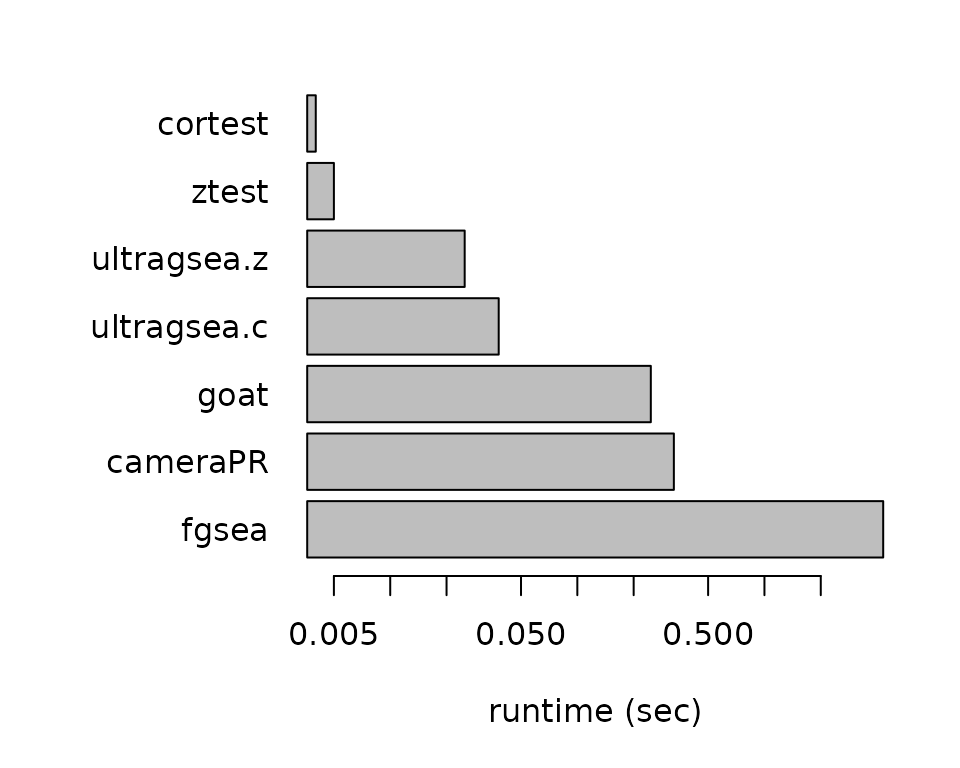
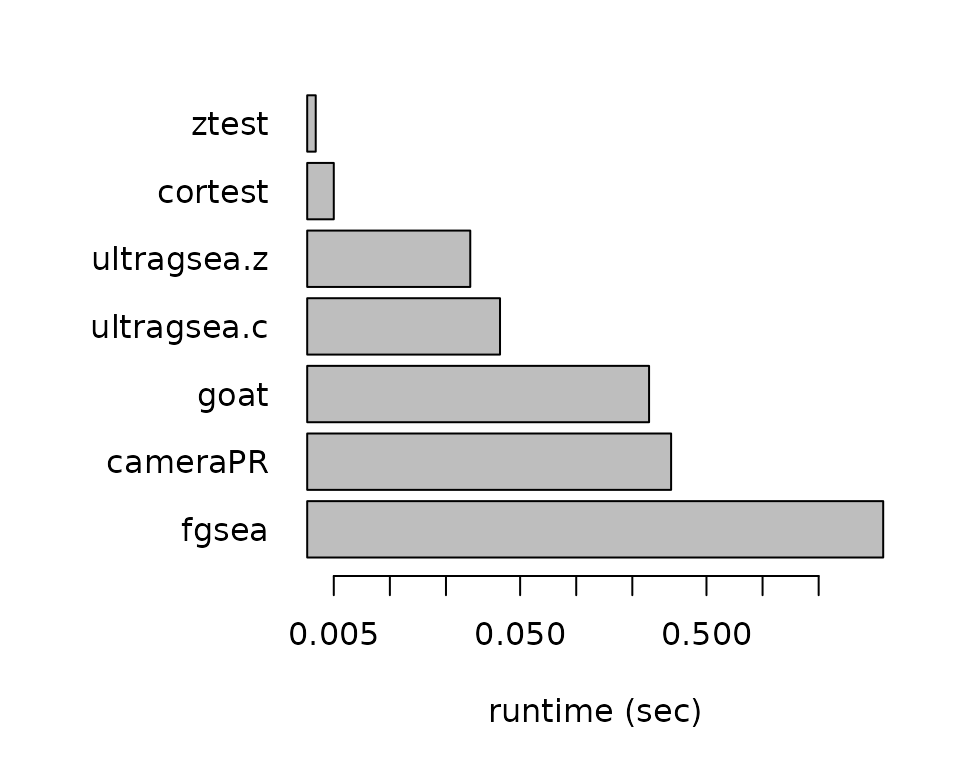
Deploying to gh-pages from @ bigomics/ultragsea@d2256c72a0008f012b825fa1ae4d3fde11b4e0a5 🚀

diff --git a/articles/compare-methods.html b/articles/compare-methods.html
@@ -171,43 +171,43 @@ of each method.</p>
 <tbody>
 <tr class="odd">
 <td align="left">fgsea</td>
-<td align="right">4.312</td>
+<td align="right">4.440</td>
 <td align="right">4.1</td>
 <td align="right">43.9</td>
 </tr>
 <tr class="even">
 <td align="left">cameraPR</td>
-<td align="right">0.328</td>
+<td align="right">0.323</td>
 <td align="right">0.7</td>
 <td align="right">42.4</td>
 </tr>
 <tr class="odd">
 <td align="left">ultragsea.z</td>
-<td align="right">0.025</td>
+<td align="right">0.027</td>
 <td align="right">0.2</td>
 <td align="right">5.9</td>
 </tr>
 <tr class="even">
 <td align="left">ultragsea.c</td>
-<td align="right">0.038</td>
+<td align="right">0.039</td>
 <td align="right">0.9</td>
 <td align="right">9.4</td>
 </tr>
 <tr class="odd">
 <td align="left">cortest</td>
-<td align="right">0.004</td>
+<td align="right">0.005</td>
 <td align="right">0.0</td>
 <td align="right">2.7</td>
 </tr>
 <tr class="even">
 <td align="left">ztest</td>
-<td align="right">0.005</td>
+<td align="right">0.004</td>
 <td align="right">0.0</td>
 <td align="right">2.8</td>
 </tr>
 <tr class="odd">
 <td align="left">goat</td>
-<td align="right">0.247</td>
+<td align="right">0.246</td>
 <td align="right">4.5</td>
 <td align="right">23.7</td>
 </tr>
@@ -279,10 +279,10 @@ fgsea::fgsea()</p>
 <div class="sourceCode" id="cb8"><pre class="downlit sourceCode r">
 <code class="sourceCode R"><span><span class="fu"><a href="https://rdrr.io/r/base/system.time.html" class="external-link">system.time</a></span><span class="op">(</span><span class="va">res1</span> <span class="op">&lt;-</span> <span class="fu">fgsea</span><span class="fu">::</span><span class="fu"><a href="https://rdrr.io/pkg/fgsea/man/fgsea.html" class="external-link">fgsea</a></span><span class="op">(</span><span class="va">gmt</span>, <span class="va">fc</span><span class="op">)</span><span class="op">)</span></span>
 <span><span class="co">#&gt;    user  system elapsed </span></span>
-<span><span class="co">#&gt;   5.536   0.093   3.594</span></span>
+<span><span class="co">#&gt;   5.624   0.084   3.642</span></span>
 <span><span class="fu"><a href="https://rdrr.io/r/base/system.time.html" class="external-link">system.time</a></span><span class="op">(</span><span class="va">res2</span> <span class="op">&lt;-</span> <span class="fu">ultragsea</span><span class="fu">::</span><span class="fu"><a href="../reference/fgsea.html">fgsea</a></span><span class="op">(</span><span class="va">gmt</span>, <span class="va">fc</span><span class="op">)</span><span class="op">)</span></span>
 <span><span class="co">#&gt;    user  system elapsed </span></span>
-<span><span class="co">#&gt;   0.231   0.111   0.274</span></span></code></pre></div>
+<span><span class="co">#&gt;   0.220   0.119   0.272</span></span></code></pre></div>
 </div>
 </div>
   </main><aside class="col-md-3"><nav id="toc" aria-label="Table of contents"><h2>On this page</h2>

diff --git a/index.html b/index.html
@@ -77,6 +77,7 @@
 <ul>
 <li><a href="https://bigomics.github.io/ultragsea/articles/ultragsea.html">Getting Started with ultragsea</a></li>
 <li><a href="https://bigomics.github.io/ultragsea/articles/compare-methods.html">Comparing ultragsea with other methods</a></li>
+<li><a href="https://bigomics.github.io/ultragsea/articles/benchmark.html">Benchmarking results</a></li>
 </ul>
 <p>ultragsea is the main gene set scoring algorithm in OmicsPlayground, our Bioinformatics platform at BigOmics Analytics. In OmicsPlayground, you can perform ultragsea without coding needs.</p>
 </div>

diff --git a/articles/compare-methods.md b/articles/compare-methods.md
@@ -101,13 +101,13 @@ kableExtra::kable(tt)
 
 | Function_Call | Elapsed_Time_sec | Total_RAM_Used_MiB | Peak_RAM_Used_MiB |
 |:--------------|-----------------:|-------------------:|------------------:|
-| fgsea         |            4.312 |                4.1 |              43.9 |
-| cameraPR      |            0.328 |                0.7 |              42.4 |
-| ultragsea.z   |            0.025 |                0.2 |               5.9 |
-| ultragsea.c   |            0.038 |                0.9 |               9.4 |
-| cortest       |            0.004 |                0.0 |               2.7 |
-| ztest         |            0.005 |                0.0 |               2.8 |
-| goat          |            0.247 |                4.5 |              23.7 |
+| fgsea         |            4.440 |                4.1 |              43.9 |
+| cameraPR      |            0.323 |                0.7 |              42.4 |
+| ultragsea.z   |            0.027 |                0.2 |               5.9 |
+| ultragsea.c   |            0.039 |                0.9 |               9.4 |
+| cortest       |            0.005 |                0.0 |               2.7 |
+| ztest         |            0.004 |                0.0 |               2.8 |
+| goat          |            0.246 |                4.5 |              23.7 |
 
 ``` r
 rt <- tt[,2]
@@ -185,8 +185,8 @@ fgsea::fgsea()
 ``` r
 system.time(res1 <- fgsea::fgsea(gmt, fc))
 #>    user  system elapsed 
-#>   5.536   0.093   3.594
+#>   5.624   0.084   3.642
 system.time(res2 <- ultragsea::fgsea(gmt, fc))
 #>    user  system elapsed 
-#>   0.231   0.111   0.274
+#>   0.220   0.119   0.272
 ```

diff --git a/index.md b/index.md
@@ -29,6 +29,8 @@ For detailed usage examples and tutorials, please see our vignettes:
   ultragsea](https://bigomics.github.io/ultragsea/articles/ultragsea.html)
 - [Comparing ultragsea with other
   methods](https://bigomics.github.io/ultragsea/articles/compare-methods.html)
+- [Benchmarking
+  results](https://bigomics.github.io/ultragsea/articles/benchmark.html)
 
 ultragsea is the main gene set scoring algorithm in OmicsPlayground, our
 Bioinformatics platform at BigOmics Analytics. In OmicsPlayground, you
